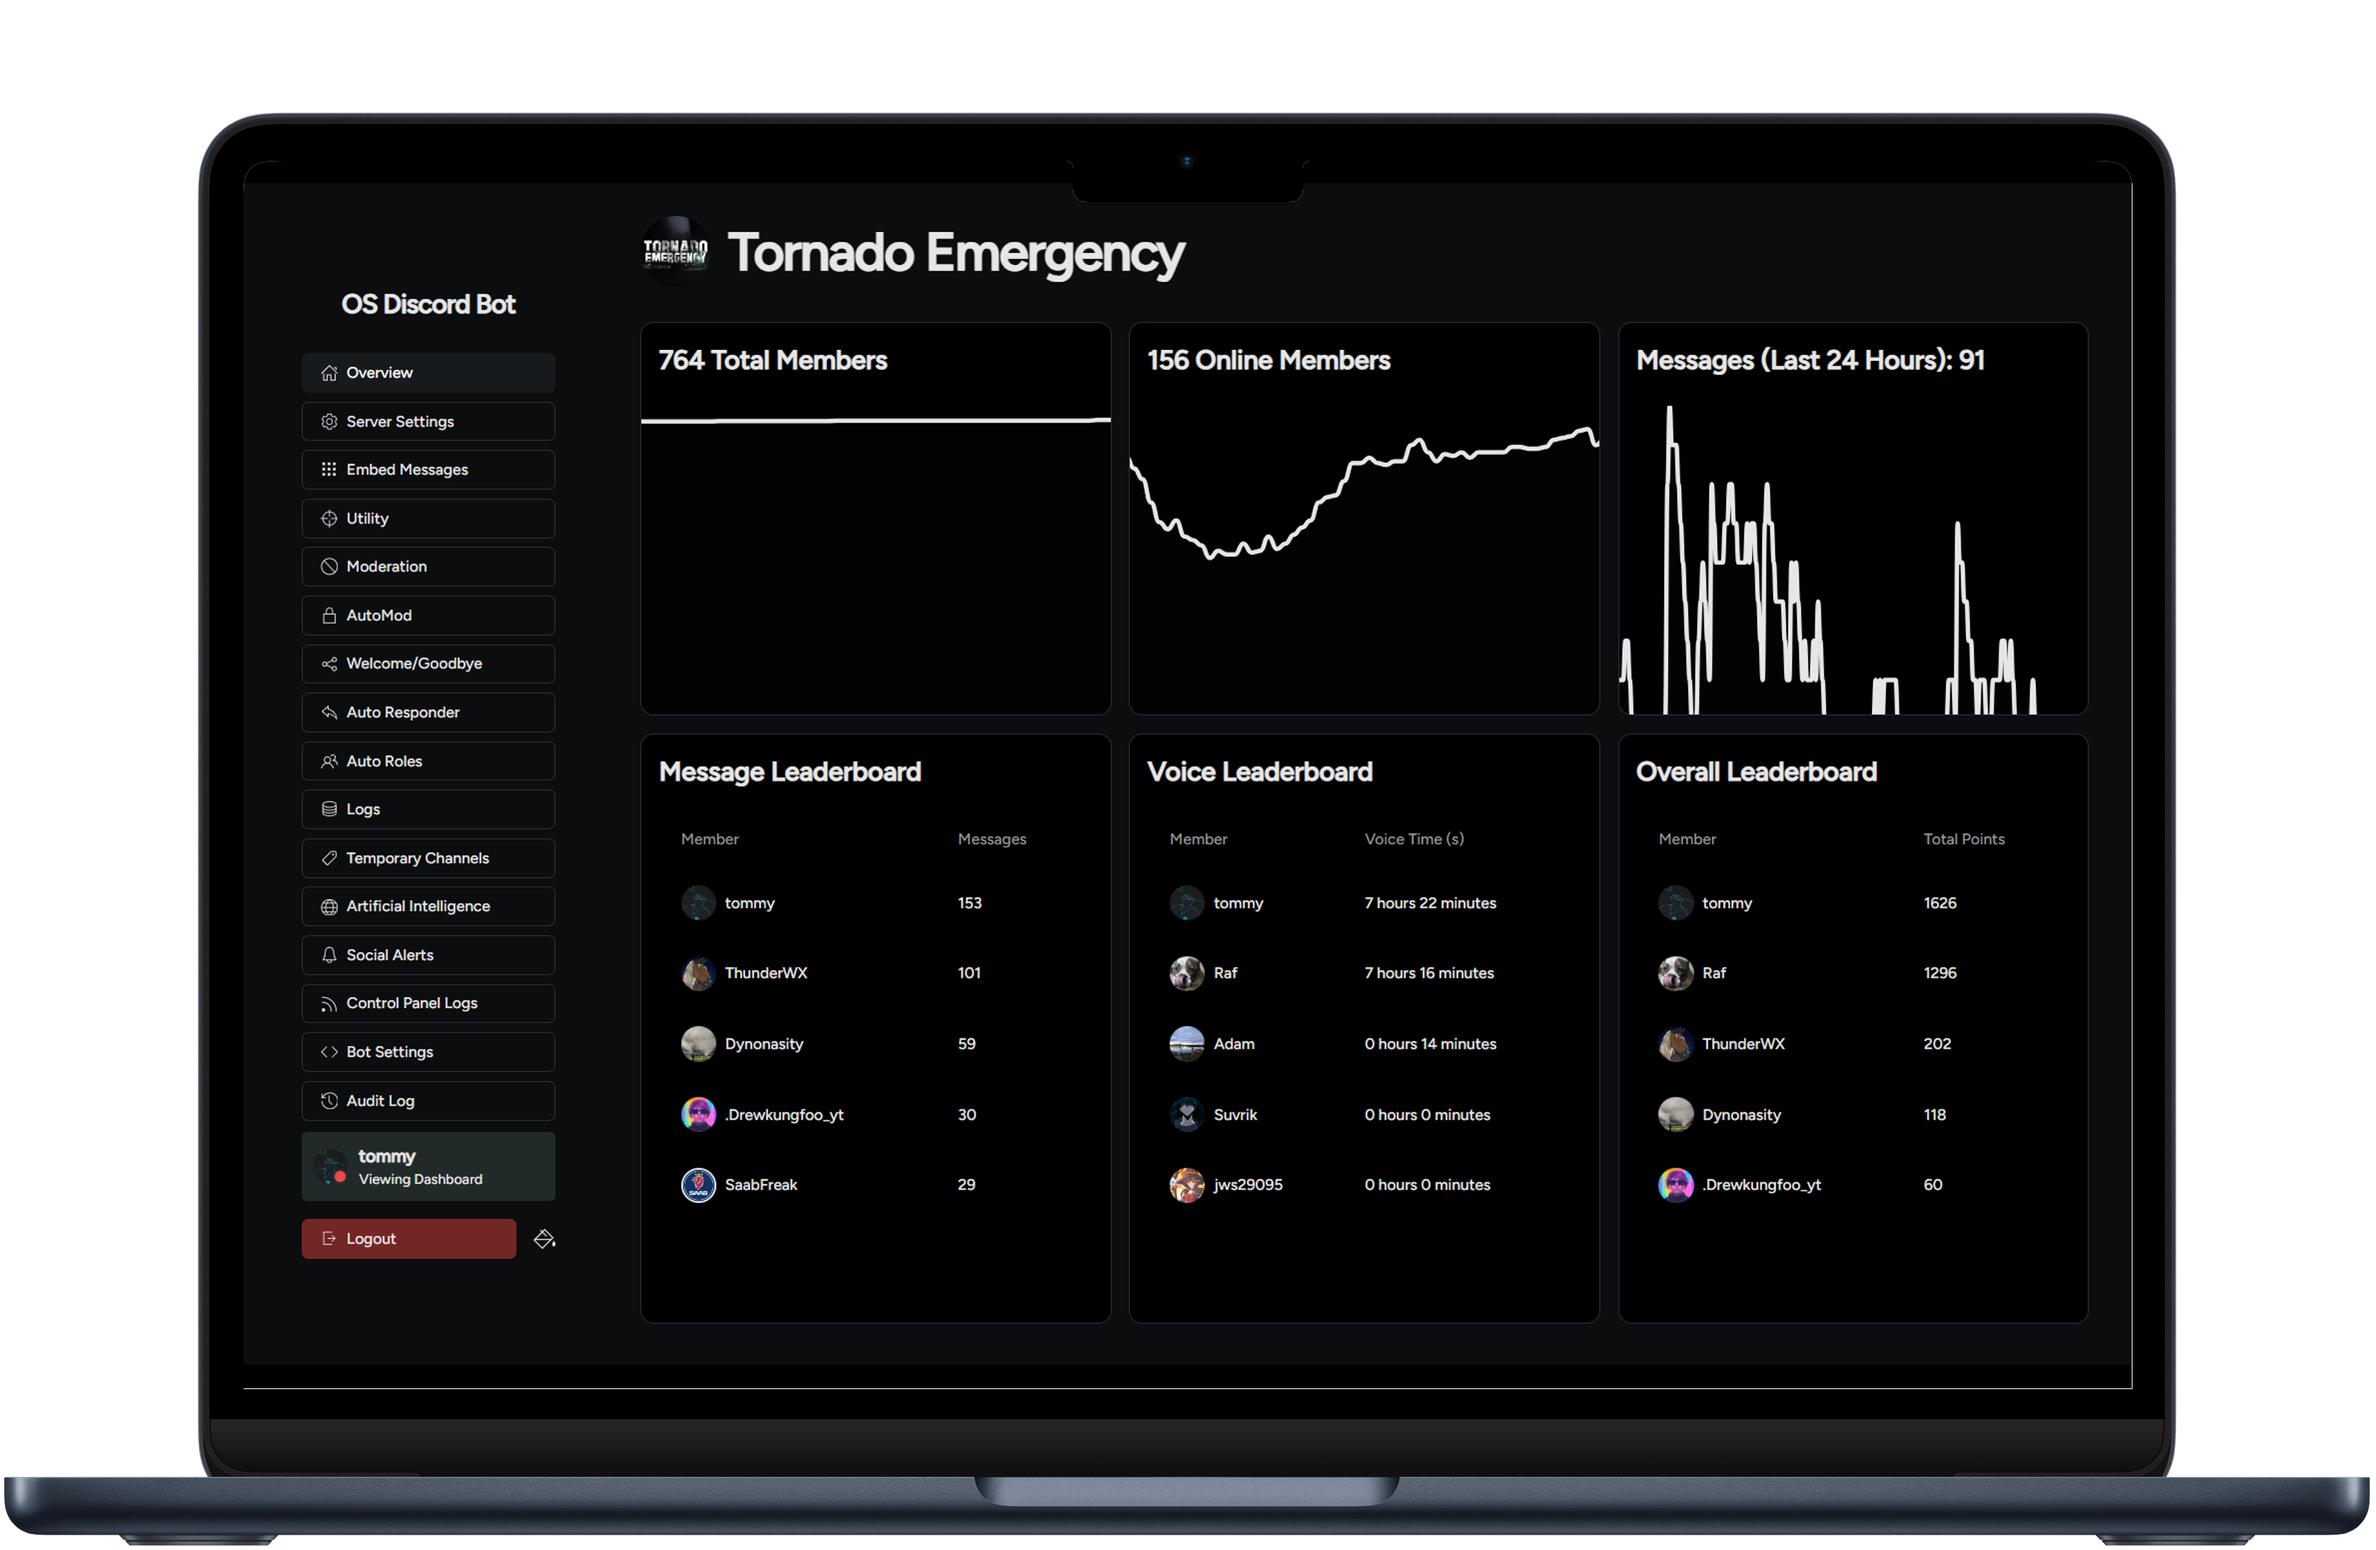
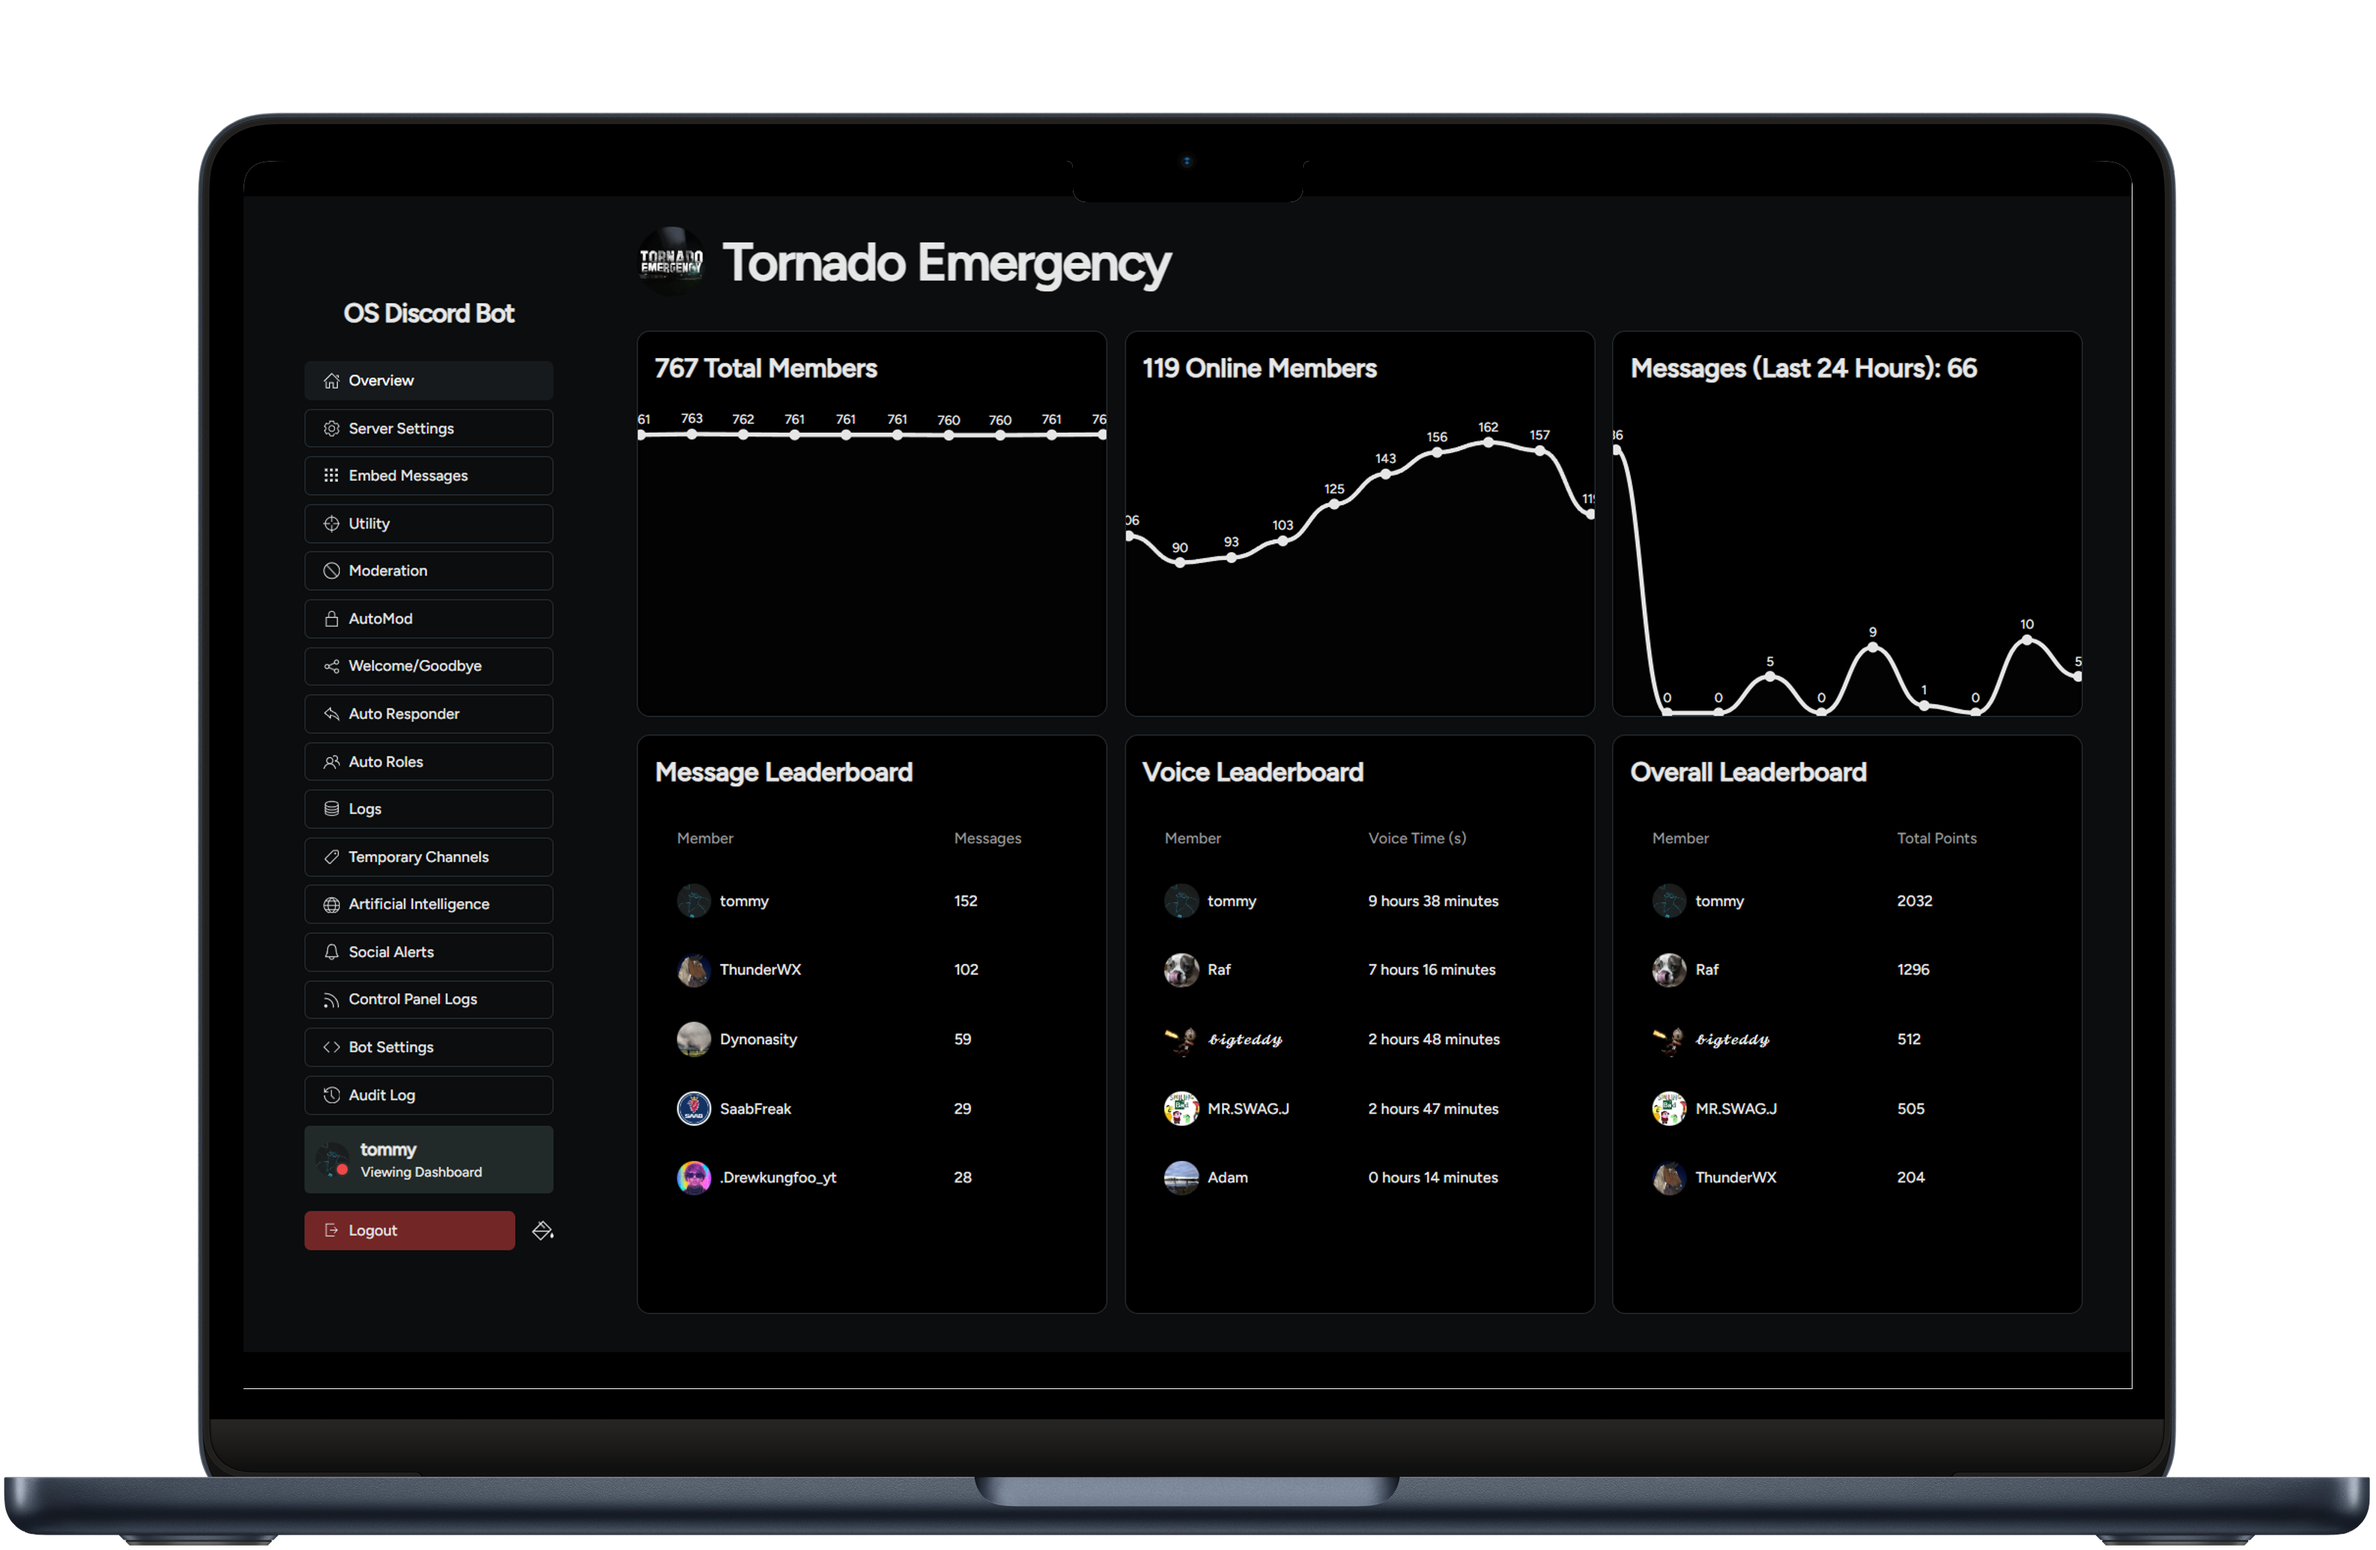
Update graph smoothing and leaderboard calc

diff --git a/utils/commands.js b/utils/commands.js
@@ -763,8 +763,8 @@ class CommandHandler {
 
     const userPoints = {};
     const voiceJoinTimes = {};
-    const messageMultiplier = 2; // Multiplier for message points
-    const voiceMultiplier = 3; // Multiplier for voice points
+    const messageMultiplier = 3; // Multiplier for message points
+    const voiceMultiplier = 2; // Multiplier for voice points
 
     logs.forEach((log) => {
       try {
